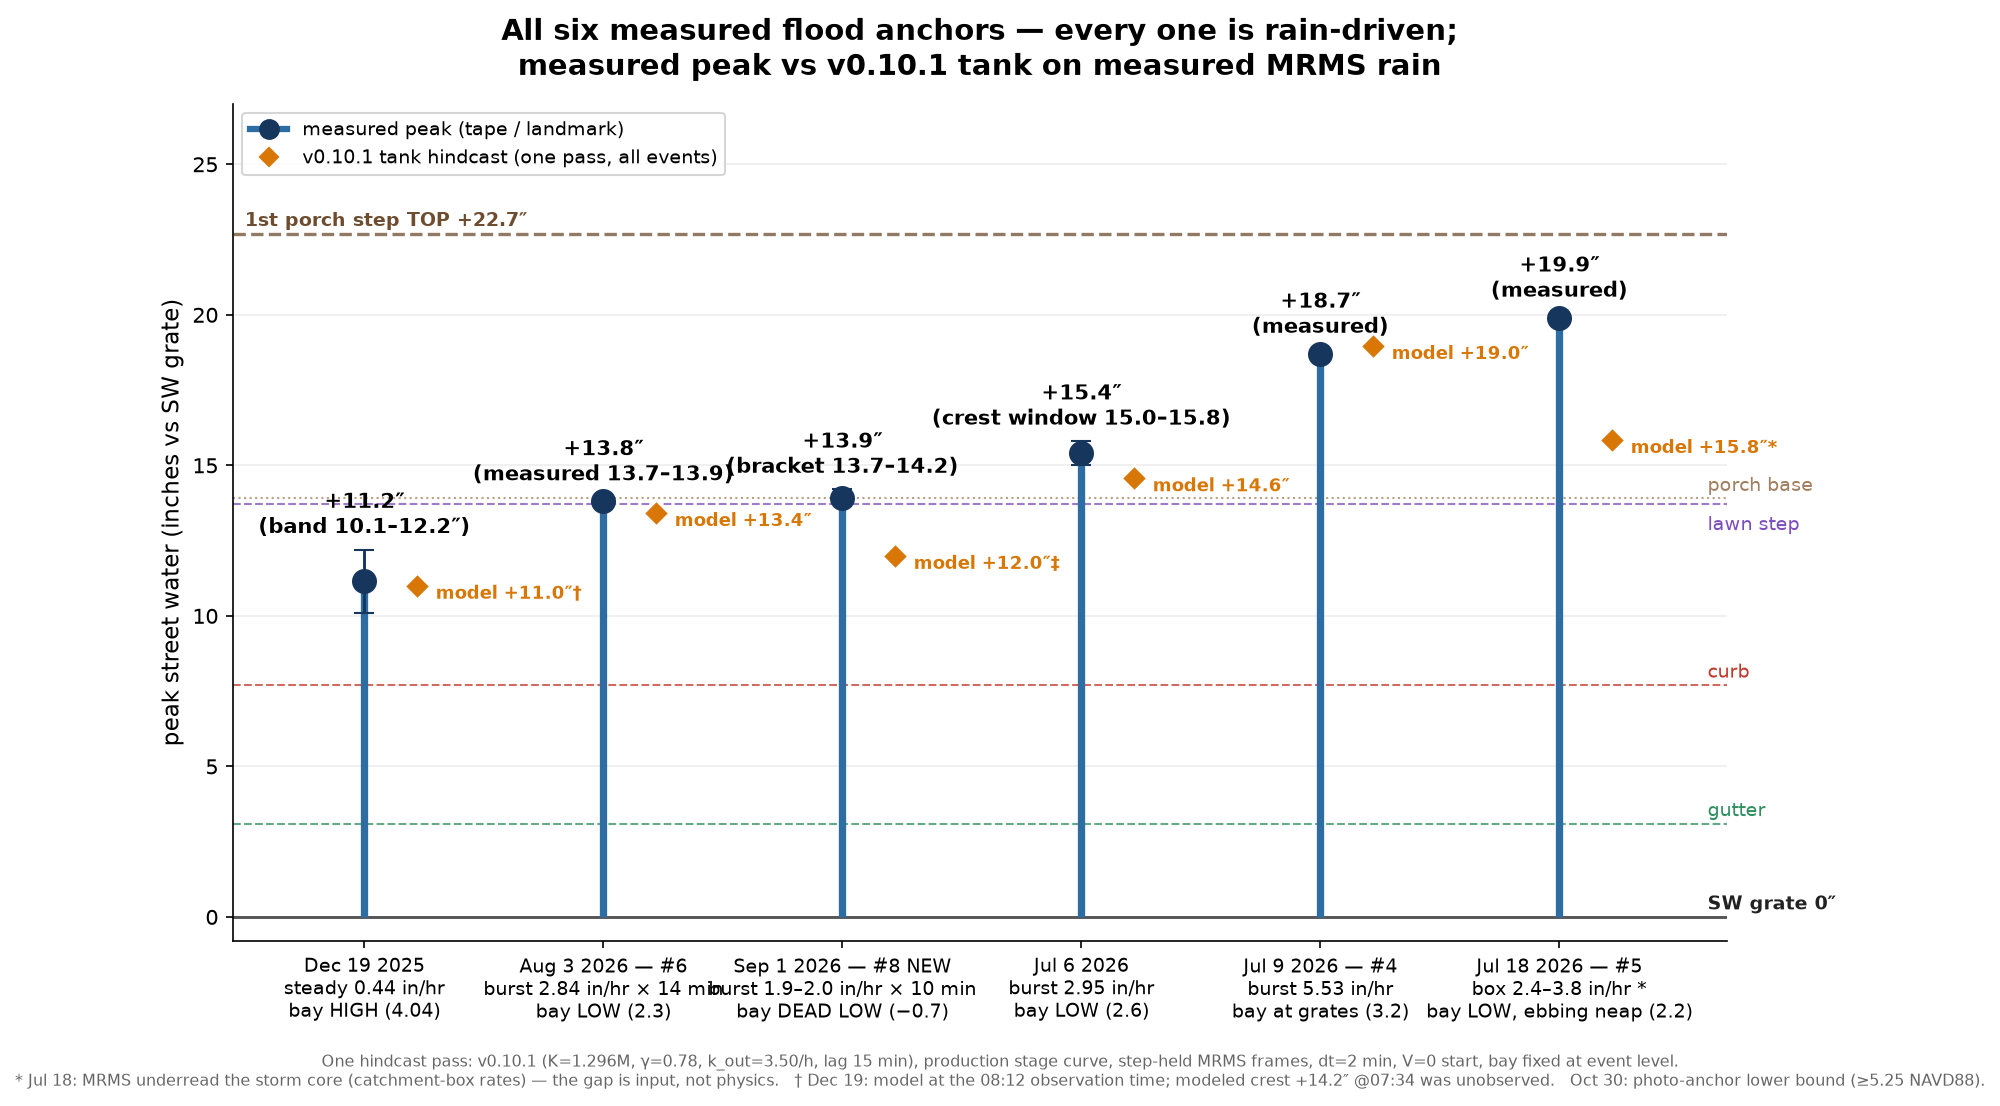
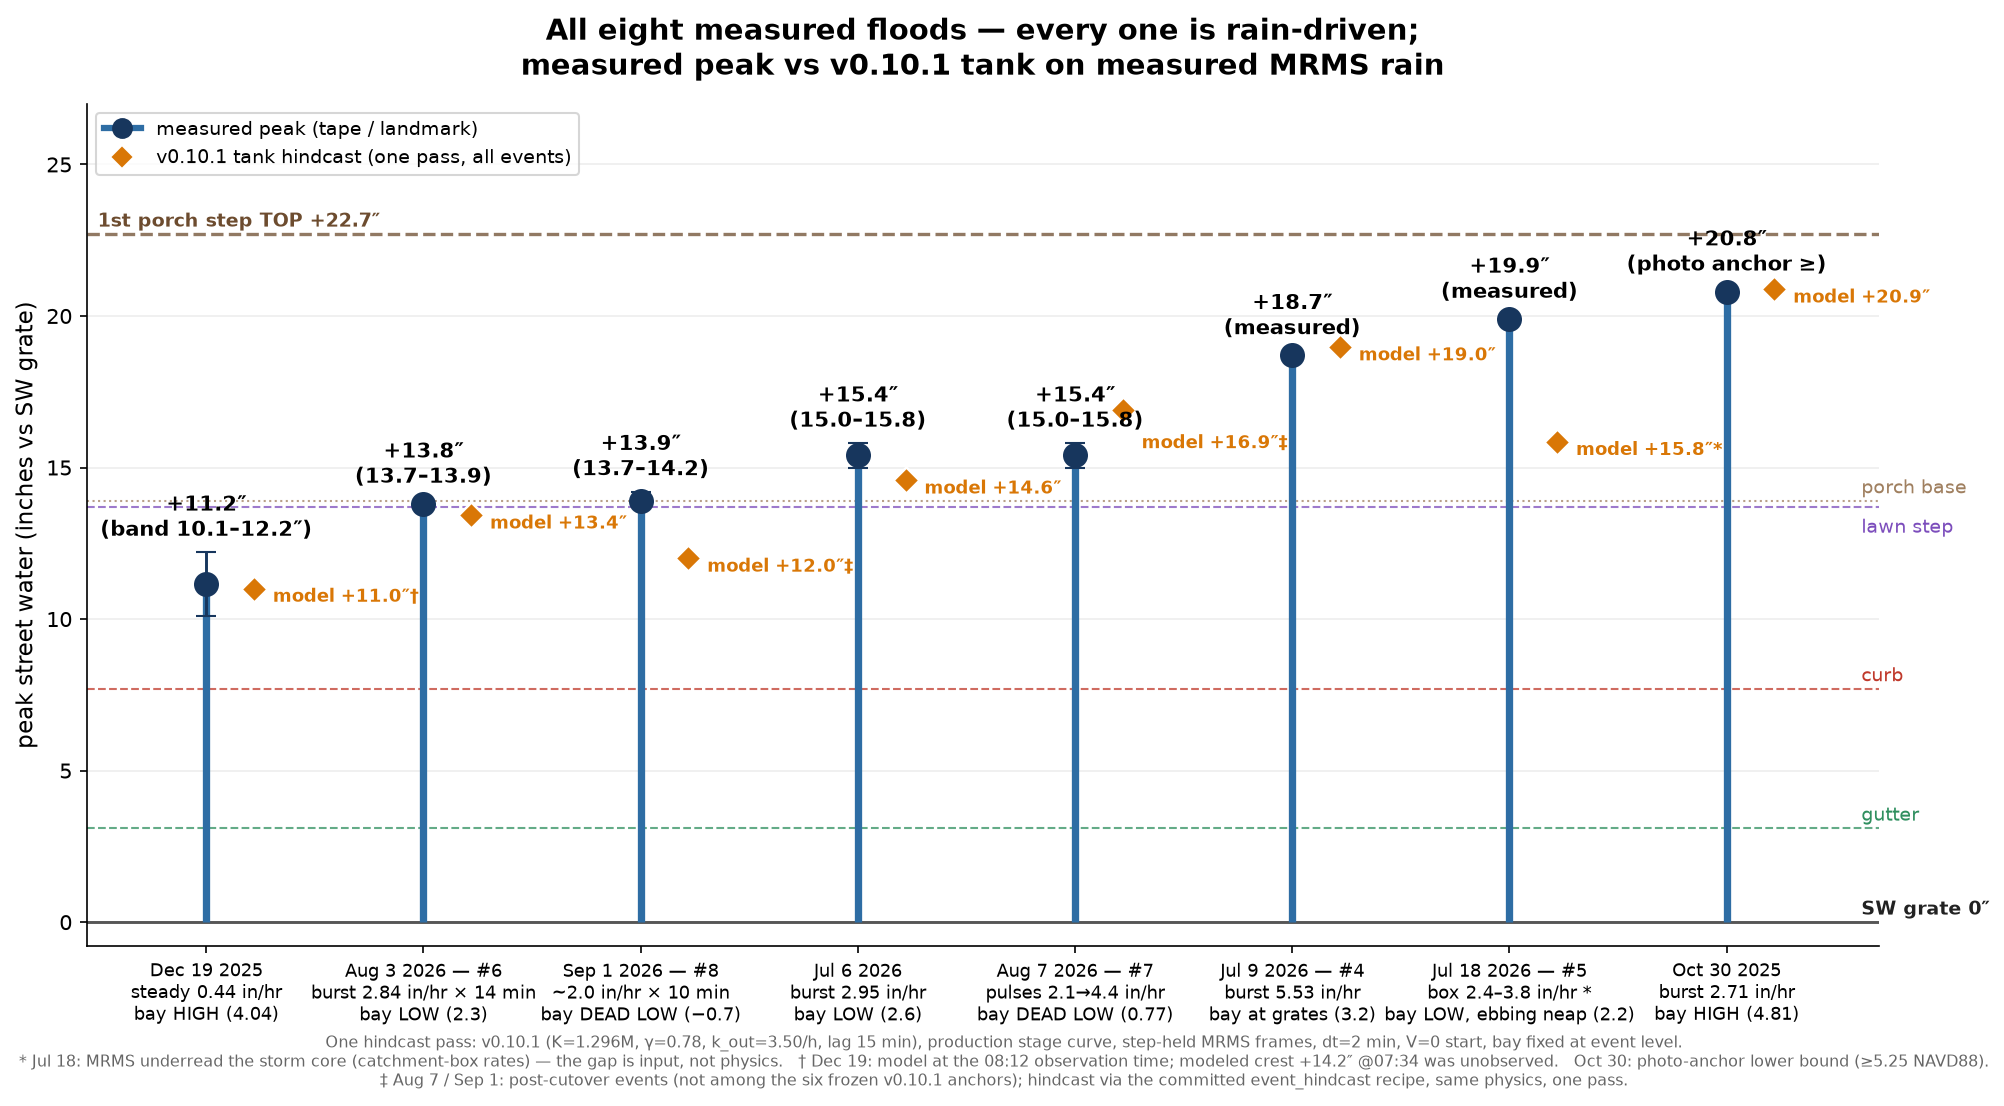
all-anchors figure: all EIGHT measured floods — Aug 7 added for the first time, Oct 30 un-clipped
Event #7 (Aug 7, +15.4 crest, hindcast +16.9) was the one measured
flood never in this figure — it post-dated the six-anchor build and
the #8 refresh only appended Sep 1. Worse: that refresh left the
six-event xlim at 5.7, silently CLIPPING Oct 30 (+20.8, the largest
measured flood) out of the committed PNG while the title said 'six'
and the docstring said '7'. Rebuilt: eight events ascending, xlim/
figsize/label positions fixed, ‡ footnote defined (post-cutover
recipe hindcasts, distinct from the six frozen v0.10.1 fixture
anchors — spec and tests correctly stay at six), counts reconciled
in README + HANDOFF, BACKLOG loop closed.

diff --git a/assets/observations/2026-09-01/analysis/all_anchors_figure.py b/assets/observations/2026-09-01/analysis/all_anchors_figure.py
@@ -1,7 +1,18 @@
-"""All-anchors model-vs-measured comparison, refreshed for EVENT #8 (7 measured anchors; ‡ = hindcast via event_hindcast.py, 2026-09-02)
-(2026-08-03). Replicates the 2026-07-09 four_rain_floods.png grammar
-(peak stems, landmark palette, sub-labels with rate + bay state) with
-the v0.10.1 tank hindcast added beside each measured peak.
+"""All-anchors model-vs-measured comparison: ALL EIGHT measured
+floods — the six frozen v0.10.1 anchors plus the two post-cutover
+events (Aug 7 #7, Sep 1 #8), whose hindcasts (‡) come from the
+committed event_hindcast recipe, not the frozen fixture.
+
+2026-09-03 refresh (audit-sweep loop closure): added Aug 7 — the one
+measured flood that had NEVER been in this figure (it post-dated the
+original six-anchor build and the #8 refresh only appended Sep 1) —
+and fixed the stale six-event xlim that had been CLIPPING Oct 30
+(the largest measured flood) out of the committed PNG while the
+title said "six" and the docstring said "7".
+
+Replicates the 2026-07-09 four_rain_floods.png grammar (peak stems,
+landmark palette, sub-labels with rate + bay state) with the v0.10.1
+tank hindcast beside each measured peak.
 """
 import runpy
 from pathlib import Path
@@ -25,14 +36,17 @@ events = [
      11.15, 1.05, 1.05, "+11.2″\n(band 10.1–12.2″)",
      R["dec19_at_obs"][0], "†"),
     ("Aug 3 2026 — #6\nburst 2.84 in/hr × 14 min\nbay LOW (2.3)",
-     13.8, 0.1, 0.1, "+13.8″\n(measured 13.7–13.9)",
+     13.8, 0.1, 0.1, "+13.8″\n(13.7–13.9)",
      R["aug3"][0], ""),
-    ("Sep 1 2026 — #8 NEW\nburst 1.9–2.0 in/hr × 10 min\nbay DEAD LOW (−0.7)",
-     13.9, 0.2, 0.3, "+13.9″\n(bracket 13.7–14.2)",
+    ("Sep 1 2026 — #8\n~2.0 in/hr × 10 min\nbay DEAD LOW (−0.7)",
+     13.9, 0.2, 0.3, "+13.9″\n(13.7–14.2)",
      12.0, "‡"),
     ("Jul 6 2026\nburst 2.95 in/hr\nbay LOW (2.6)",
-     15.4, 0.4, 0.4, "+15.4″\n(crest window 15.0–15.8)",
+     15.4, 0.4, 0.4, "+15.4″\n(15.0–15.8)",
      R["jul6"][0], ""),
+    ("Aug 7 2026 — #7\npulses 2.1→4.4 in/hr\nbay DEAD LOW (0.77)",
+     15.4, 0.4, 0.4, "+15.4″\n(15.0–15.8)",
+     16.9, "‡"),
     ("Jul 9 2026 — #4\nburst 5.53 in/hr\nbay at grates (3.2)",
      18.7, 0.0, 0.0, "+18.7″\n(measured)",
      R["jul9"][0], ""),
@@ -44,7 +58,7 @@ events = [
      R["oct30"][0], ""),
 ]
 
-fig, ax = plt.subplots(figsize=(11.5, 7.4))
+fig, ax = plt.subplots(figsize=(13.5, 7.4))
 
 # landmark ladder (site chart grammar)
 landmarks = [
@@ -61,9 +75,9 @@ for y, c, ls, lw, lbl in landmarks:
         ax.text(-0.5, y + 0.25, lbl, color=c, fontsize=9,
                 fontweight="bold", ha="left")
     elif y == 13.7:                     # lawn step below its line: porch base above
-        ax.text(5.62, y - 0.85, lbl, color=c, fontsize=9)
+        ax.text(7.62, y - 0.85, lbl, color=c, fontsize=9)
     else:
-        ax.text(5.62, y + 0.25, lbl, color=c, fontsize=9,
+        ax.text(7.62, y + 0.25, lbl, color=c, fontsize=9,
                 fontweight="bold" if y == 0.0 else "normal")
 
 xs = range(len(events))
@@ -78,14 +92,15 @@ for x, (lbl, meas, elo, ehi, annot, model, tag) in zip(xs, events):
                 ha="center", fontsize=10, fontweight="bold", zorder=5)
     ax.plot([x + 0.22], [model], "D", ms=9, color=MODEL,
             markeredgecolor="white", markeredgewidth=1.2, zorder=4)
+    dy = -16 if lbl.startswith("Aug 7") else -4   # clear the twin +15.4 annot
     ax.annotate(f"model +{model:.1f}″{tag}", xy=(x + 0.22, model),
-                xytext=(9, -4), textcoords="offset points",
+                xytext=(9, dy), textcoords="offset points",
                 ha="left", va="center", fontsize=8.5, color=MODEL,
                 fontweight="bold", zorder=5)
 
 ax.set_xticks(list(xs))
-ax.set_xticklabels([e[0] for e in events], fontsize=9)
-ax.set_xlim(-0.55, 5.7)
+ax.set_xticklabels([e[0] for e in events], fontsize=8.5)
+ax.set_xlim(-0.55, 7.7)
 ax.set_ylim(-0.8, 27)
 ax.set_ylabel("peak street water (inches vs SW grate)", fontsize=11)
 ax.grid(axis="y", color="0.93", zorder=0)
@@ -93,7 +108,7 @@ ax.set_axisbelow(True)
 for sp in ("top", "right"):
     ax.spines[sp].set_visible(False)
 
-ax.set_title("All six measured flood anchors — every one is rain-driven;\n"
+ax.set_title("All eight measured floods — every one is rain-driven;\n"
              "measured peak vs v0.10.1 tank on measured MRMS rain",
              fontsize=14, fontweight="bold", pad=14)
 
@@ -110,7 +125,10 @@ fig.text(0.5, 0.015,
     "* Jul 18: MRMS underread the storm core (catchment-box rates) — the gap is input, "
     "not physics.   † Dec 19: model at the 08:12 observation time; "
     "modeled crest +%.1f″ @07:34 was unobserved.   Oct 30: photo-anchor lower bound "
-    "(≥5.25 NAVD88)." % R["dec19"][0],
+    "(≥5.25 NAVD88).\n"
+    "‡ Aug 7 / Sep 1: post-cutover events (not among the six frozen v0.10.1 "
+    "anchors); hindcast via the committed event_hindcast recipe, same physics, "
+    "one pass." % R["dec19"][0],
     ha="center", fontsize=7.5, color="#666666")
 
 fig.tight_layout(rect=(0, 0.045, 1, 1))

diff --git a/BACKLOG.md b/BACKLOG.md
@@ -126,13 +126,15 @@ all findings verified — see audits/2026-08-03-a2/)**
       M2/L2 reconciled — audits/2026-08-03-a2/05). This checkbox
       lagged HANDOFF/audits until the 2026-09-02 sweep caught the
       contradiction in the file declared authoritative.
-- [ ] Anchor-count reconciliation (2026-09-02 sweep): event #7
-      (Aug 7, measured ~+15.4, hindcast +16.9) was never added to
-      the all-anchors figure or fixture evidence; records now read
-      six (spec/site/tests) vs "7" (figure title) vs eight measured
-      floods in fact. Decide the canonical set, add aug7 + sep1 as
-      ‡ anchors, update spec prose + tests in the same commit.
-      Daylight work.
+- [x] Anchor-count reconciliation (2026-09-02 sweep; CLOSED
+      2026-09-03): canonical framing settled — SIX frozen v0.10.1
+      anchors (fixture/spec/tests, immutable model provenance) +
+      post-cutover measured events as ‡ recipe hindcasts. Figure
+      rebuilt with all EIGHT measured floods (Aug 7 added for the
+      first time; the stale six-event xlim had been CLIPPING Oct 30
+      out of the committed PNG); ‡ footnote added; titles/docstring/
+      README/HANDOFF counts reconciled. Spec + tests correctly kept
+      at six.
 - [ ] driveway_central landmark (2026-09-02 sweep): elevation still
       TBD while load-bearing (8/27 residue bound, #6/#8 driveway
       bracket) — cross-fit from the bracket (+13.8 negative / +13.9
@@ -221,3 +223,4 @@ all findings verified — see audits/2026-08-03-a2/)**
 2026-09-02 | DONE | heartbeat-staging-fix | audit-sweep findings 3+4: data/nowcast_heartbeats.csv was written every nowcast run but staged by NEITHER publish path — SLO ledger stuck at 1 row ("collecting..." forever) AND the dirty tracked file would fail the rebase-retry on any push race (same class as the event-#8 dispatch race). Fixed: both git-add lines stage it; .gitattributes union-merge so racing appenders never conflict; cadence reader now sorts rows [VERIFIED: grep both paths + 100 tests + gate]
 2026-09-02 | FACT | scheduler-half-A-correction | half-A NEVER ran: 2,077 consecutive launchd failures since 2026-08-07 — the dedicated clone was created 42 s before bin/ existed on origin and never pulled. The 08-07 DONE line's [VERIFIED: origin log "local tick"] was a manual main-tree run, not launchd. GH cron was the SOLE nowcast scheduler 8/7-9/2 incl. the 8/27 dark window (post-mortem cause corrected via ledger erratum). Fixed: clone pulled current, installer now always-syncs, kickstart-verified genuine tick e6f6c05dd 03:52Z, launchctl status 0 [VERIFIED: ~/.barnacle/logs/launchd.log + clone log]
 2026-09-02 | DONE | audit-sweep-records | records batch: public "calibrated on FOUR events" claim (survived closed audit a2/L2 in the one renderer its close-out missed) fixed + guard test widened to BOTH split halves; a2 closeout checkbox closed (BACKLOG lagged audits/); +16.1-vs-+16.4 hindcast discrepancy resolved by ledger erratum + README supersession markers; HANDOFF drift fixed (v7.25a, 100 tests, nine-town, launchd cause); forecast/README.md seam statuses marked; 7 new OPEN loops queued (anchor-count, driveway_central, doc-drift batch, local paths, tanh placeholder, launchd watch) [VERIFIED: 100 tests + gate]
+2026-09-03 | DONE | all-anchors-eight | figure rebuilt: Aug 7 (#7, +15.4 crest window 15.0-15.8, hindcast +16.9 ‡) added for the FIRST time; stale six-event xlim had been clipping Oct 30 (+20.8, largest measured) out of the committed PNG while title said six and docstring said 7; ‡ footnote defined (post-cutover recipe hindcasts vs six frozen fixture anchors — spec/tests correctly stay at six); README/HANDOFF counts reconciled [VERIFIED: regenerated all_anchors.png, all 8 visible]

diff --git a/assets/observations/2026-09-01/README.md b/assets/observations/2026-09-01/README.md
@@ -66,7 +66,12 @@ fastest recorded, on the LOWEST bay of any measured event.
   tail-recession drainage are two of the standing six insights.
 - QPE storm total (fetched 2026-09-02): 0.57″ box-mean in the
   event hour — a small storm, delivered fast, on a dead-low bay.
-- `analysis/all_anchors.png`: refreshed with #8 — **seven measured
-  anchors** (‡ = hindcast via the shared event_hindcast.py recipe).
+- `analysis/all_anchors.png`: refreshed with #8, then re-refreshed
+  2026-09-03 to **all eight measured floods** — the audit sweep found
+  event #7 (Aug 7) had never been added, and the stale six-event xlim
+  had been clipping Oct 30 (the largest measured flood) out of the
+  committed PNG entirely. Six frozen v0.10.1 anchors + ‡ post-cutover
+  events (Aug 7, Sep 1) hindcast via the committed
+  `history/scripts/event_hindcast.py` recipe.
 - Photo 14–16: hydrant/driveway/sidewalk extent documents the Central
   Ave arm at peak — candidate edge_20260901 map points.

diff --git a/HANDOFF.md b/HANDOFF.md
@@ -66,7 +66,9 @@ widget v7.25a, per-tide pages, and nine-town street flood map. Model
   RACE to the push and no text went out — dispatch now runs after the
   commit step (fixed 2026-09-02). Analysis DONE: hindcast +12.0
   (−1.9, +11 min — 3rd near-core-lag + tail-overhold confirmations);
-  all-anchors now 7 measured.
+  all-anchors figure now ALL EIGHT measured floods (2026-09-03: the
+  sweep's anchor-count loop closed — Aug 7 had never been added and
+  a stale xlim had been clipping Oct 30 from the committed PNG).
 - **2026-08-27:** evidenced-unmeasured flood while user traveled —
   radar 1.9–3.8 in/hr ×45 min, full-window hindcast +16.4 [INFERRED],
   mud up the driveway [VERIFIED residue], Kevin's witness timeline
